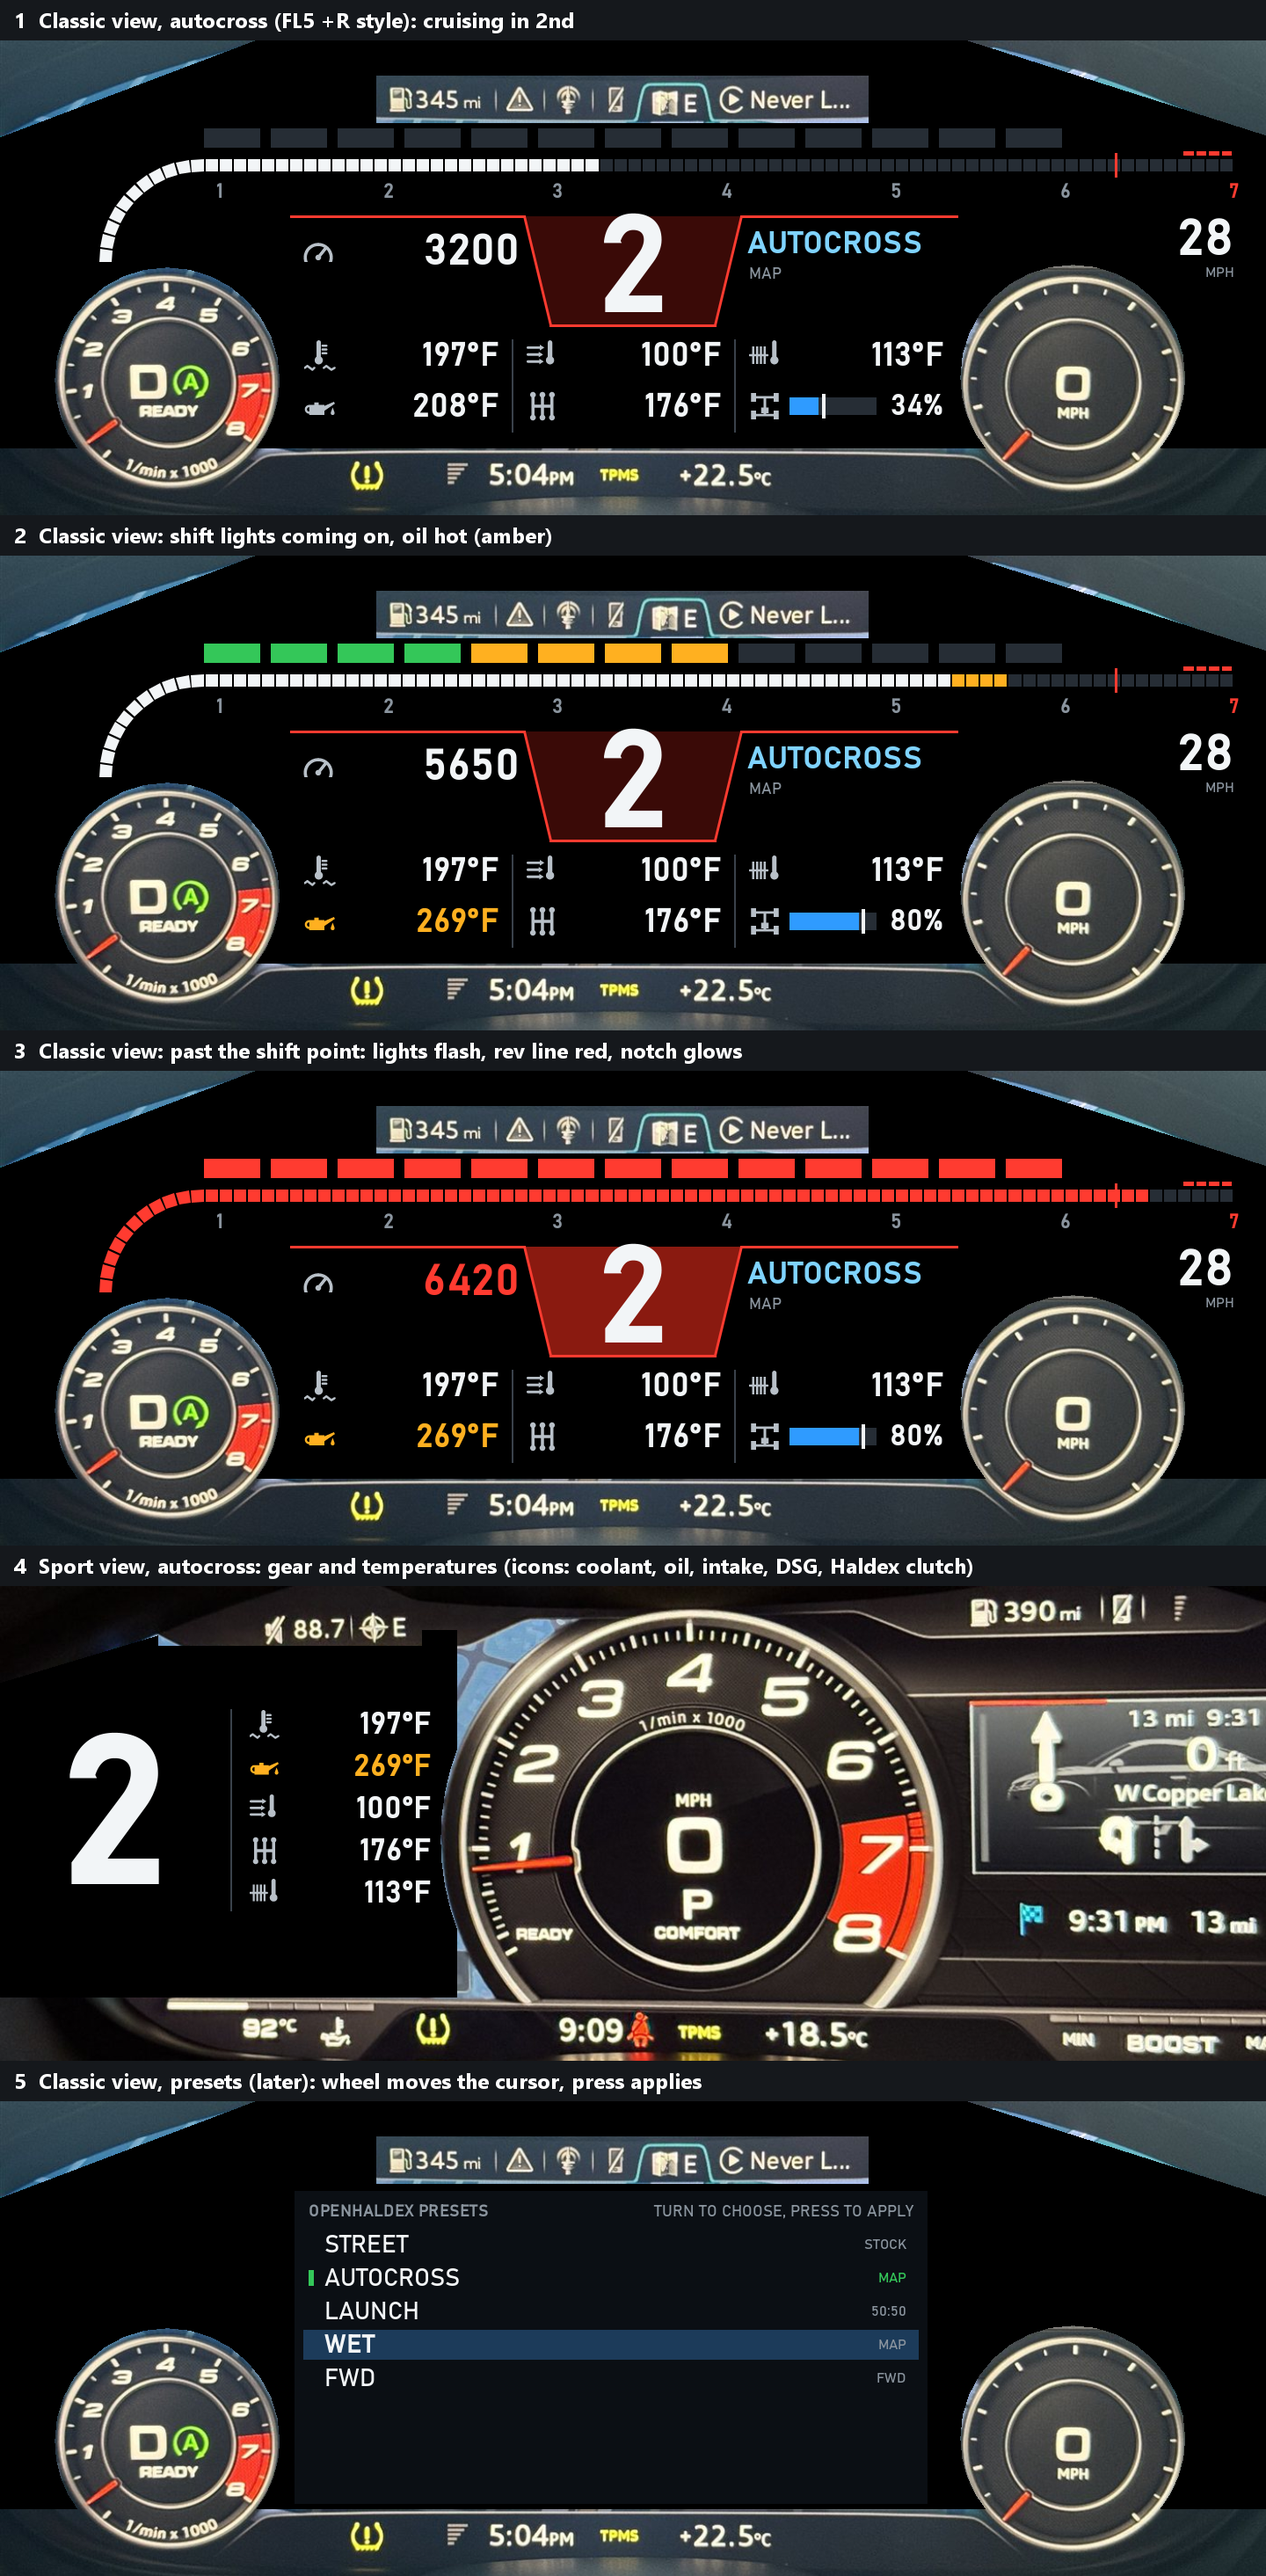
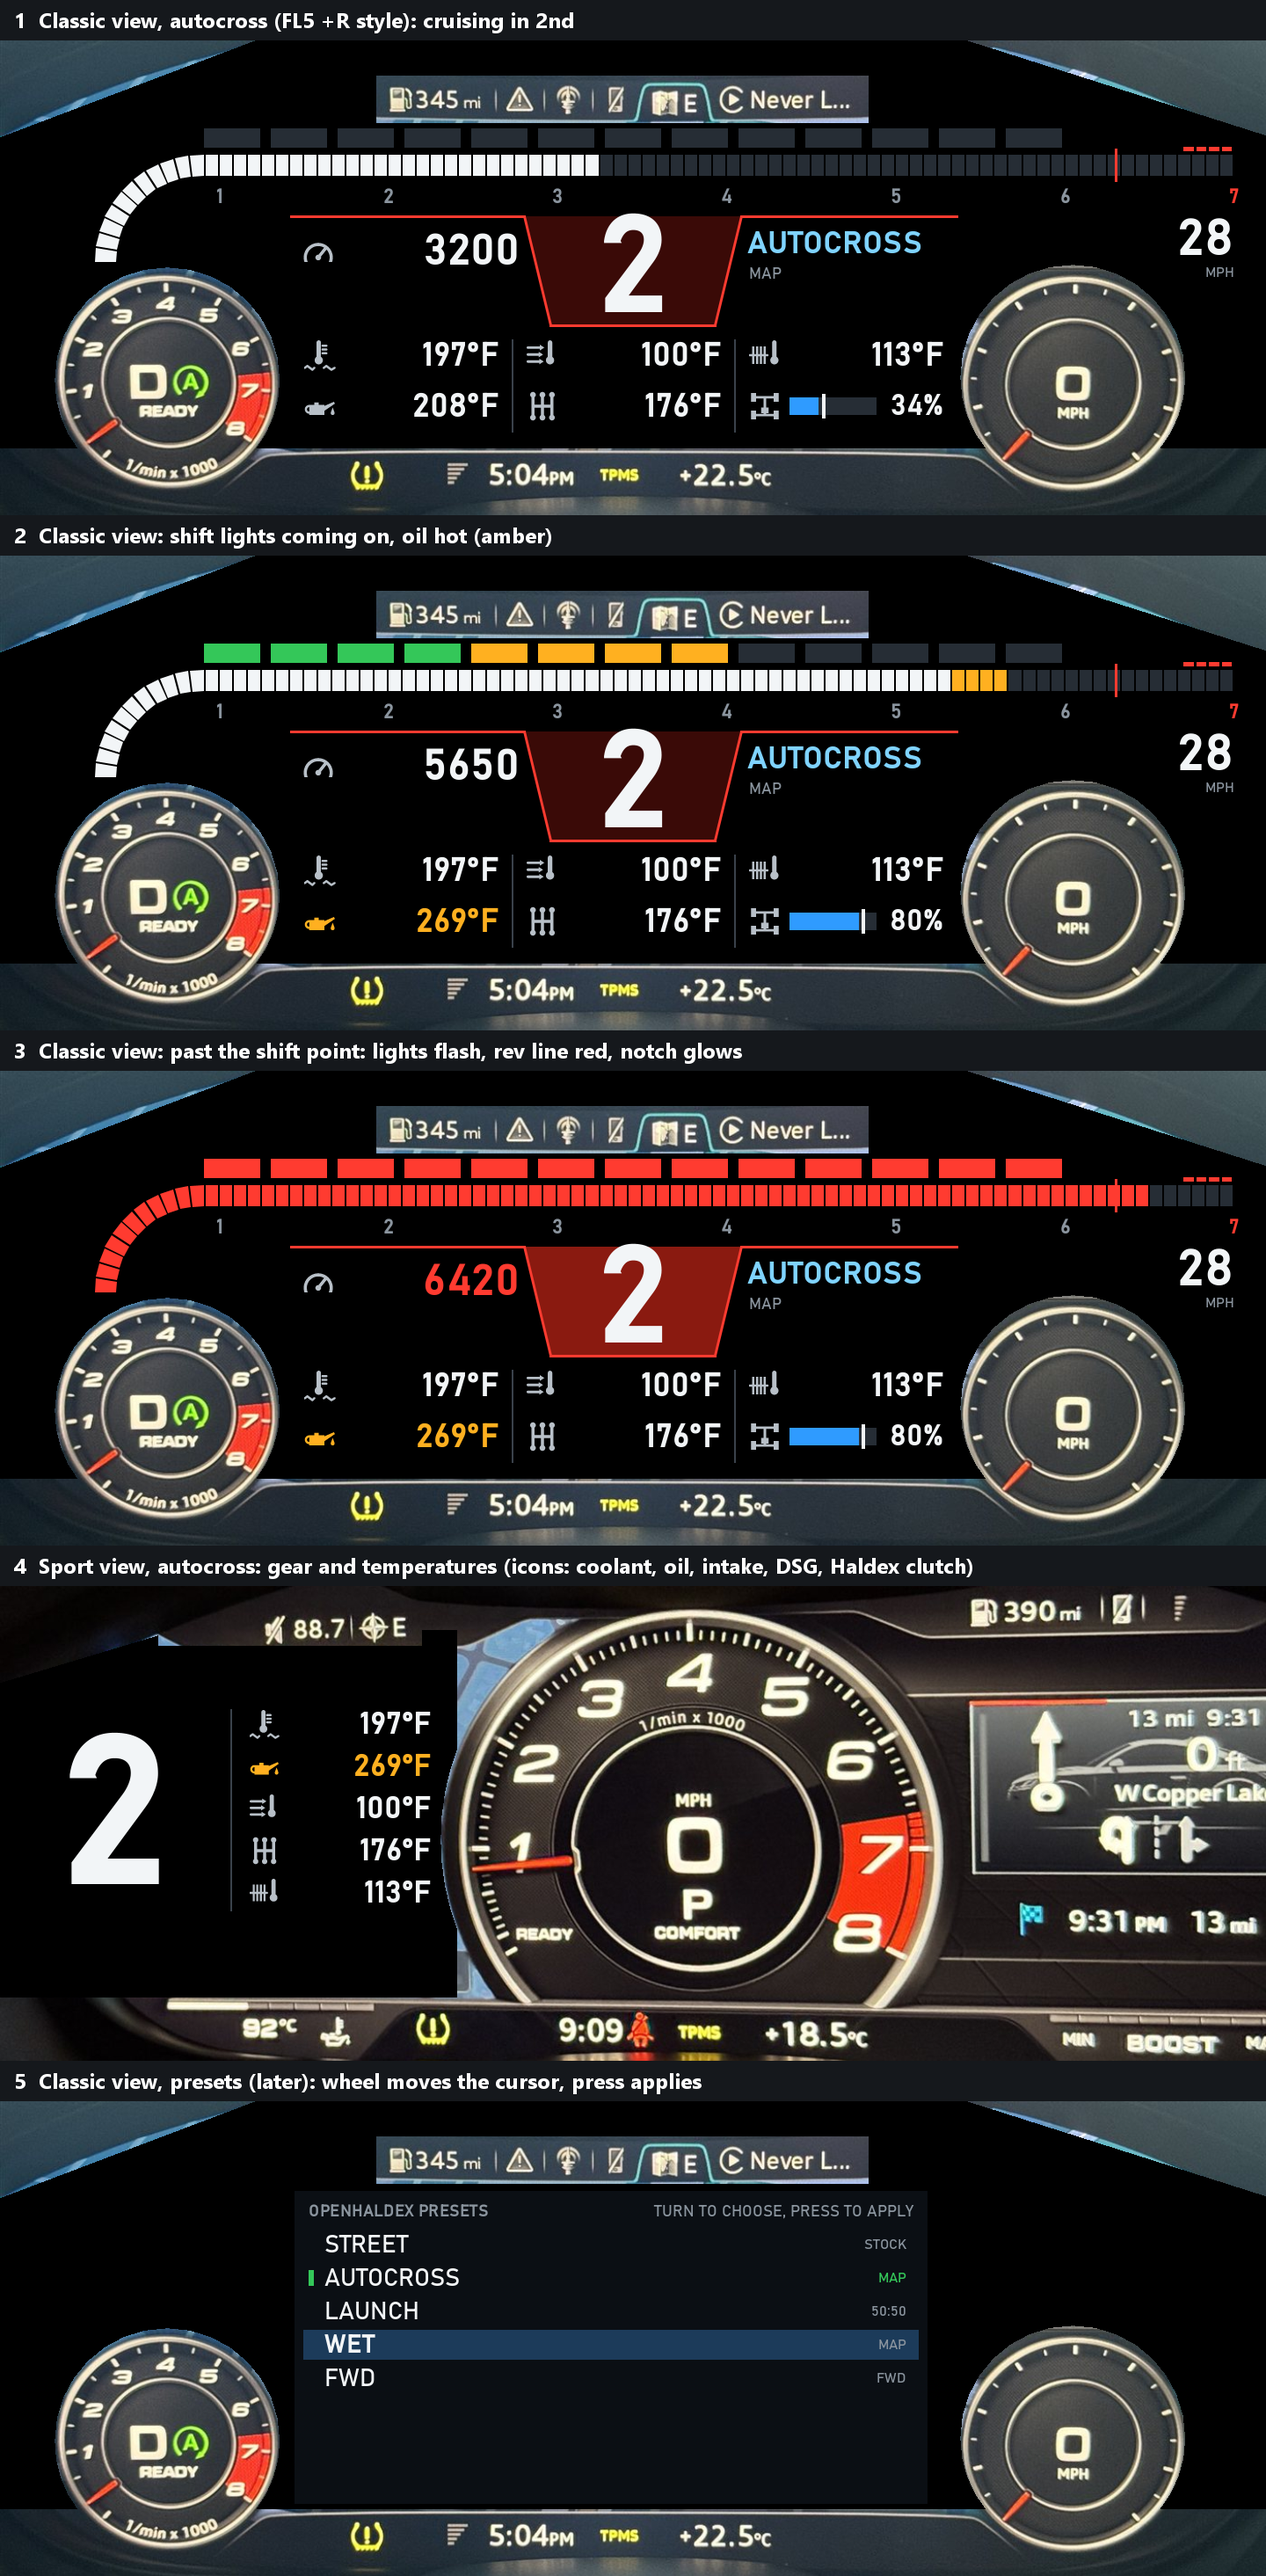
Telemetry: thicker rev line

diff --git a/ports/tt-8s-mu1462/hmi/src/local/tt/TeleLayout.java b/ports/tt-8s-mu1462/hmi/src/local/tt/TeleLayout.java
@@ -94,7 +94,7 @@ public final class TeleLayout {
     private static final int TP_CY = 252;
     private static final int TP_R = 110;
     private static final int TP_X1 = 1404;
-    private static final int TP_HALF = 7;
+    private static final int TP_HALF = 12;
     private static final int TP_SEGS = 84;
     // Shift lights: LEDS in a row under the tab bar, LED_STEP rpm apart up to the shift point.
     private static final int LEDS = 13;
@@ -220,7 +220,7 @@ public final class TeleLayout {
             if (k == 0)
                 continue;
             tp(len * (k * 1000 - barFromRpm) / span, pa);
-            text((int) Math.round(pa[0] - pa[2] * 30), (int) Math.round(pa[1] - pa[3] * 30) - 11, 22, true, CENTER,
+            text((int) Math.round(pa[0] - pa[2] * 36), (int) Math.round(pa[1] - pa[3] * 36) - 11, 22, true, CENTER,
                 k * 1000 >= shiftRpm ? RED : GREY, Integer.toString(k), true);
         }
 

diff --git a/ports/tt-8s-mu1462/wiki/Telemetry.md b/ports/tt-8s-mu1462/wiki/Telemetry.md
@@ -192,7 +192,7 @@ wsl -d Ubuntu-24.04 -u root -- sh -c 'cd /mnt/c/.../gauges/headunit && docker ru
     switching back is instant. Our turn panel hides while the autocross view shows.
   - Classic view: 13 shift lights under the tab bar (green, amber, red over the last 1625 rpm, all
     red and flashing from the shift point). A rev line rising from the lower left and running
-    across under them, 1..7 under it (white, amber in the last 1000 rpm before the shift point,
+    across under them, 24 px thick, 1..7 under it (white, amber in the last 1000 rpm before the shift point,
     all red from it, flashing at the limiter; red marks over the limiter range, red tick at the
     shift point). A red line across with a notch in the middle holding the gear; the notch glows
     brighter from the shift point. Rpm left of the notch, the active preset and its mode right of
